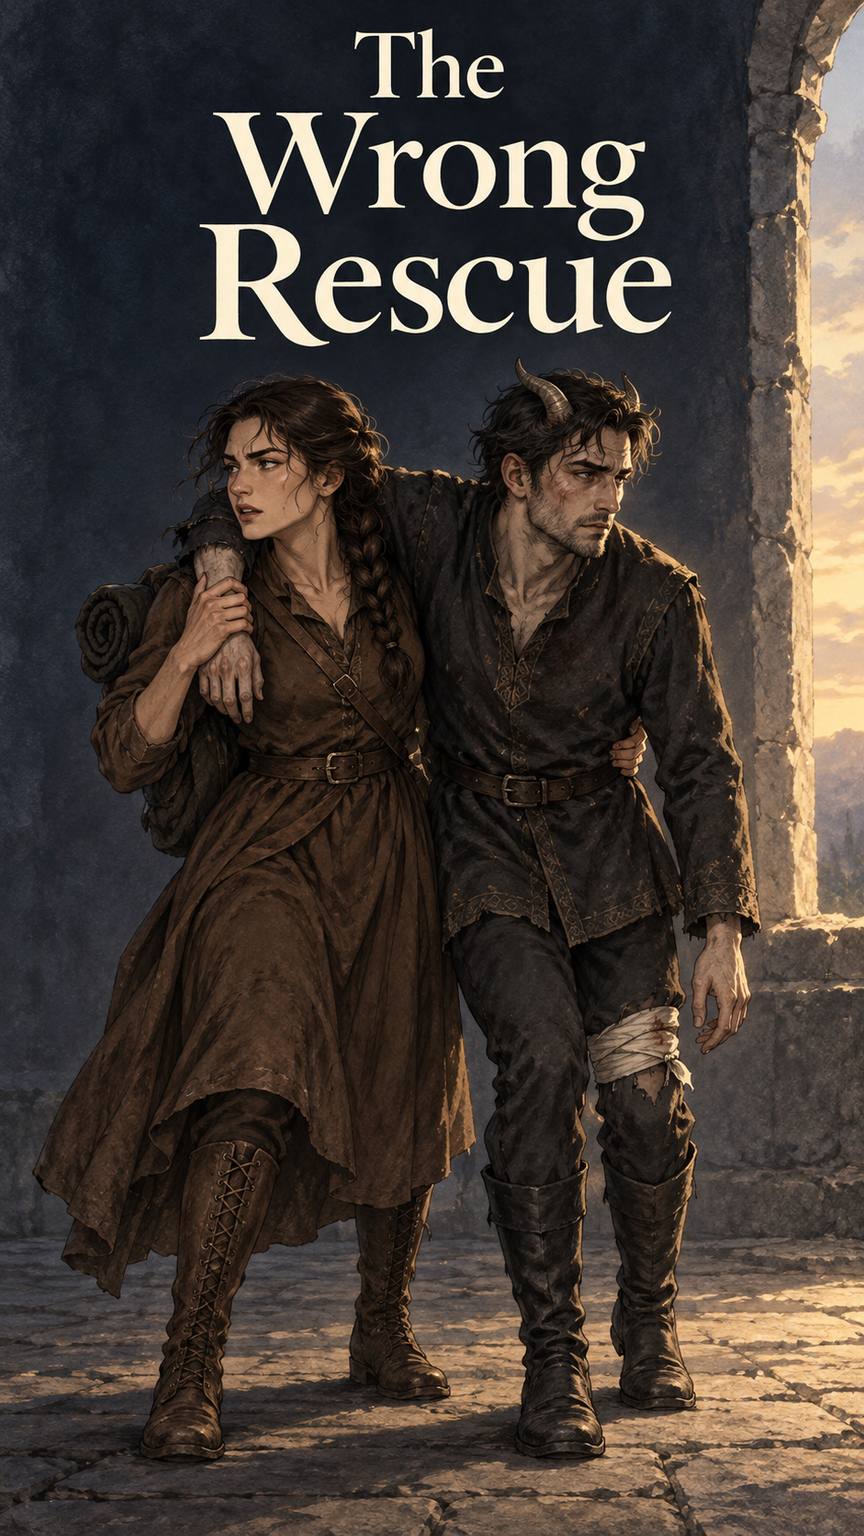
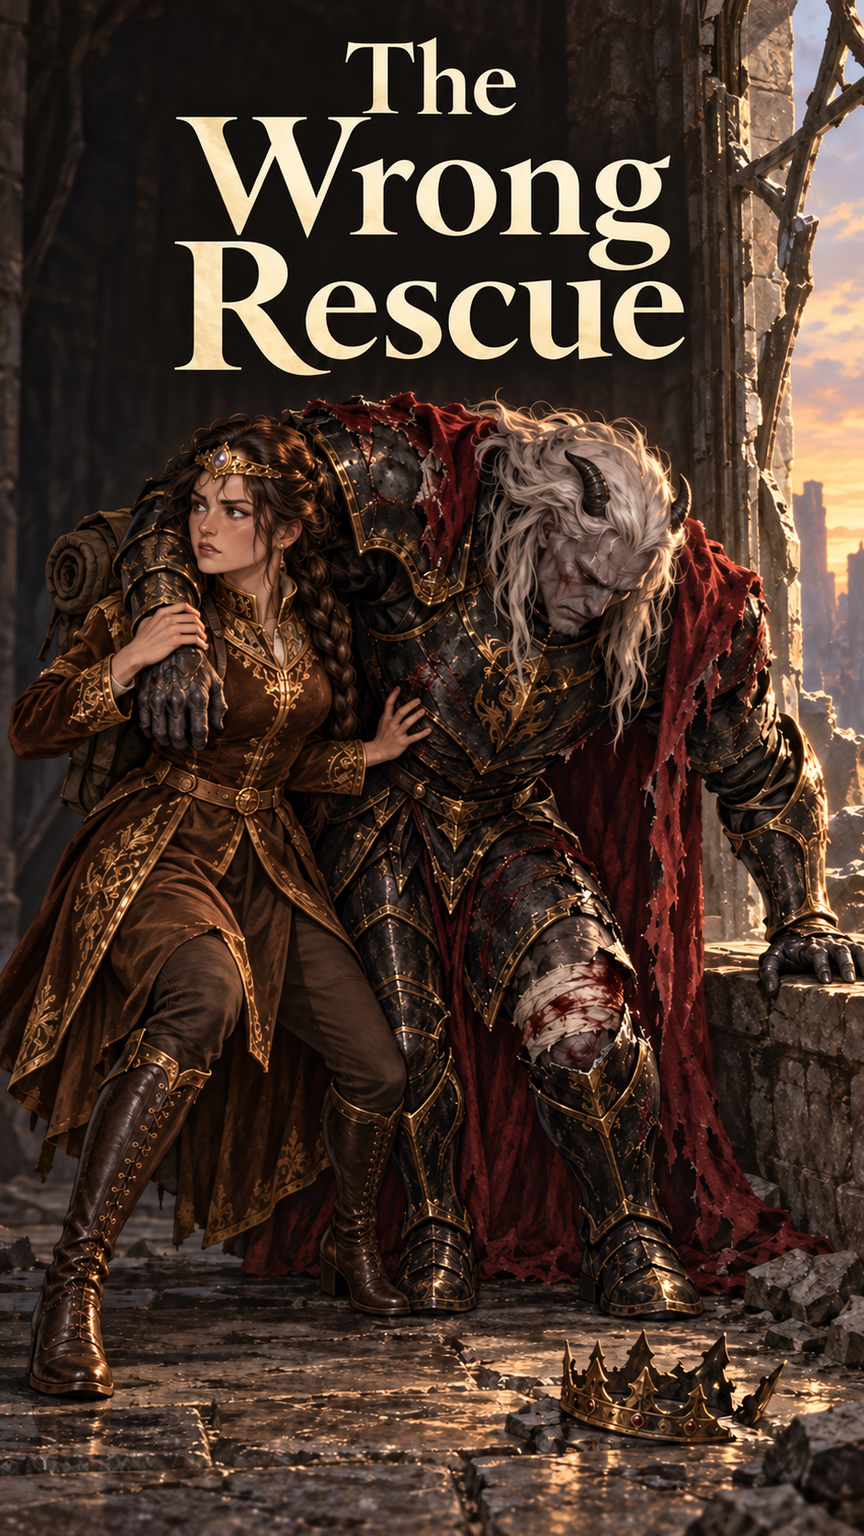
Strengthen royal identities and defeat in cover

diff --git a/stories/what-the-gates-keep/prompt.md b/stories/what-the-gates-keep/prompt.md
@@ -8,6 +8,10 @@ Subsequent user direction on title and cover:
 
 > ima not a fan of the title and cover image it dose not hit the right notes with the orginal prompt.
 
+Further user direction on the cover:
+
+> i think that dose not look visual like a pricness and the demon king laughable underwhleming both in present and his defect...
+
 ## Reference images
 
 - None supplied.
